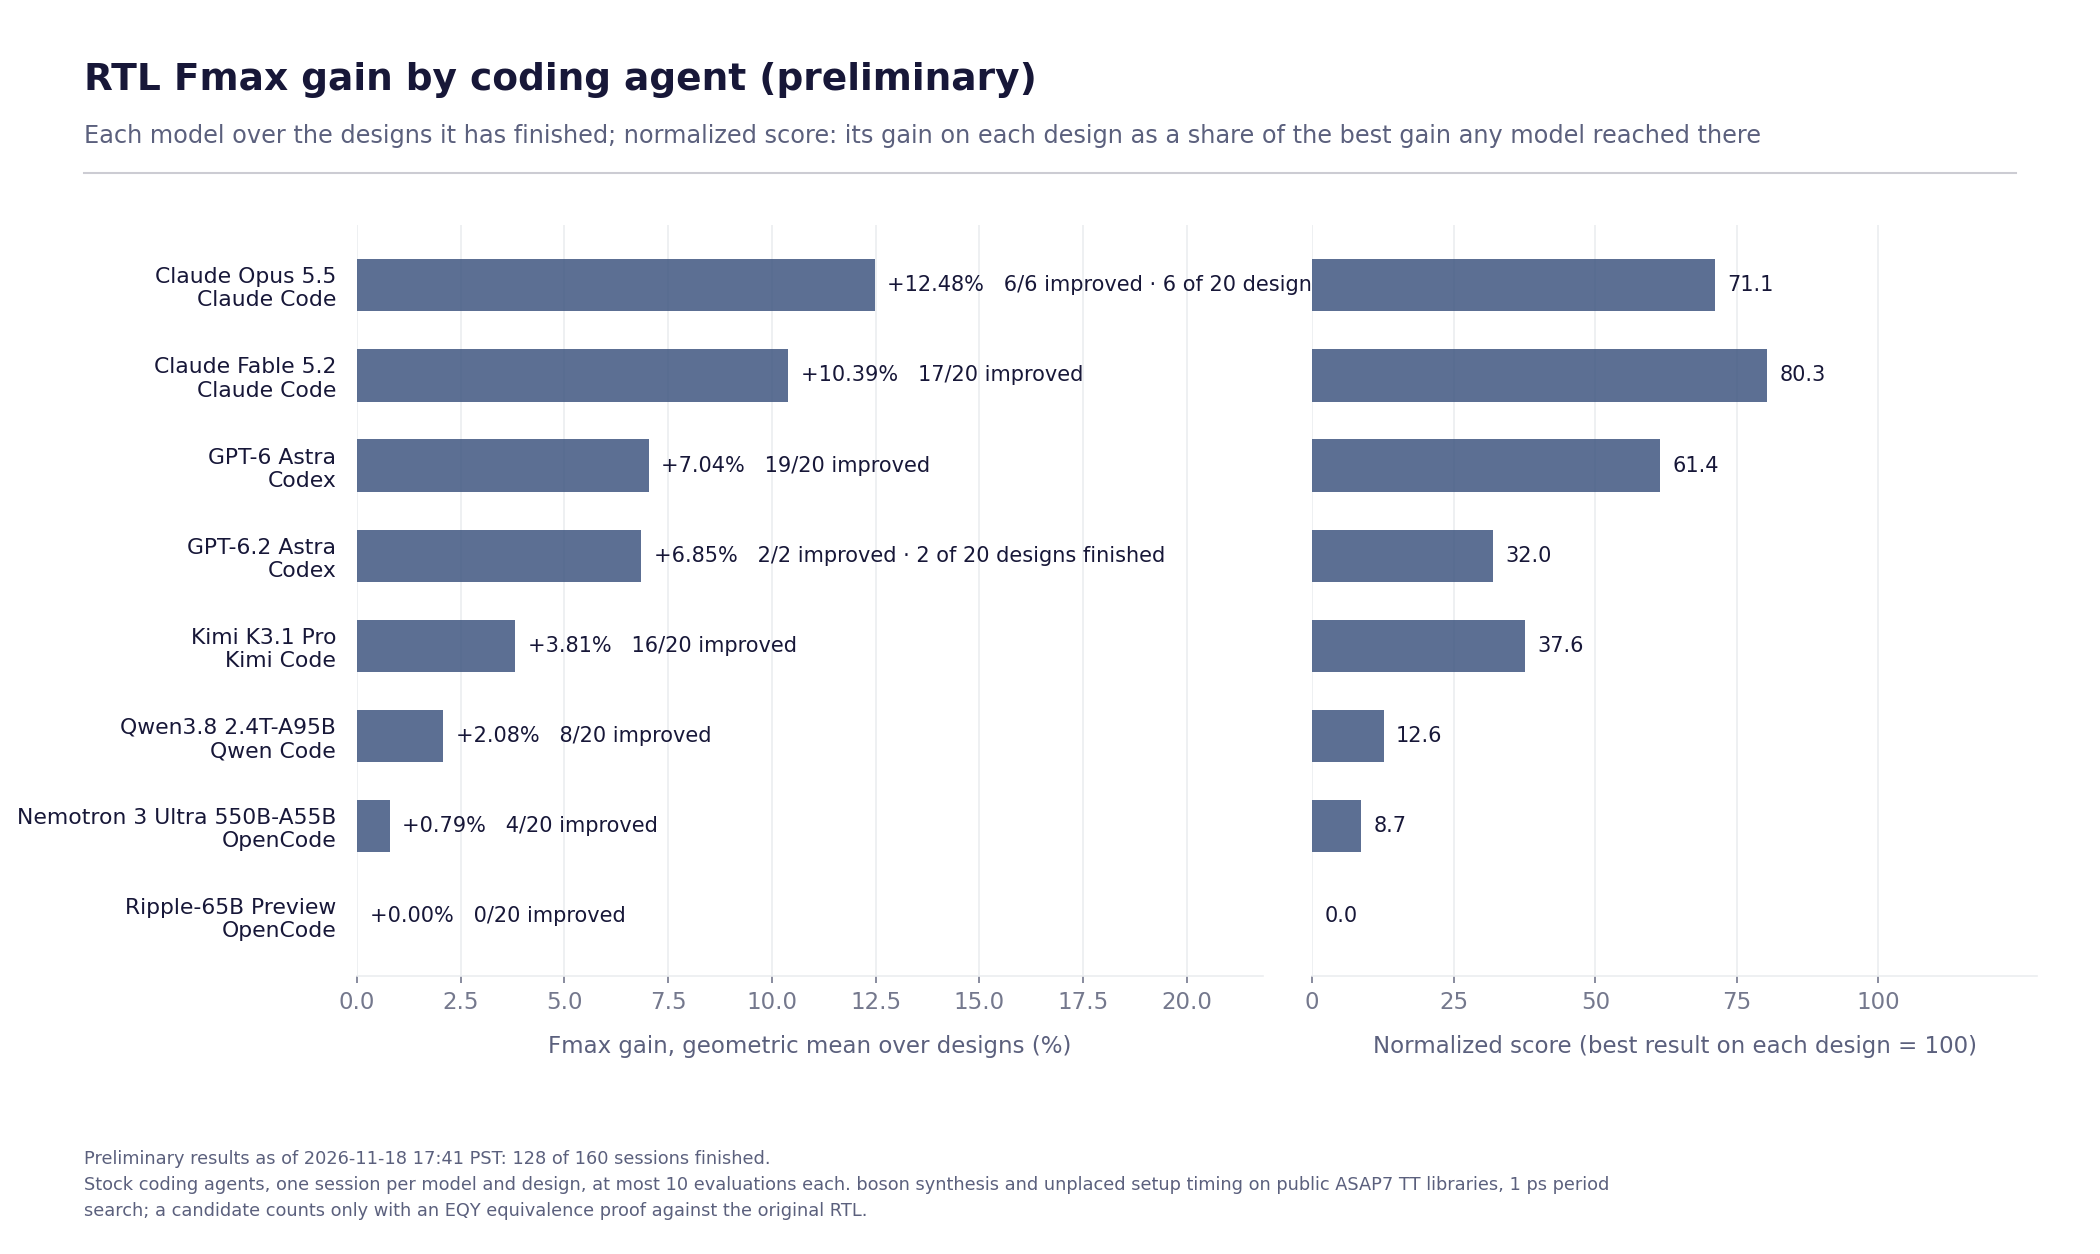
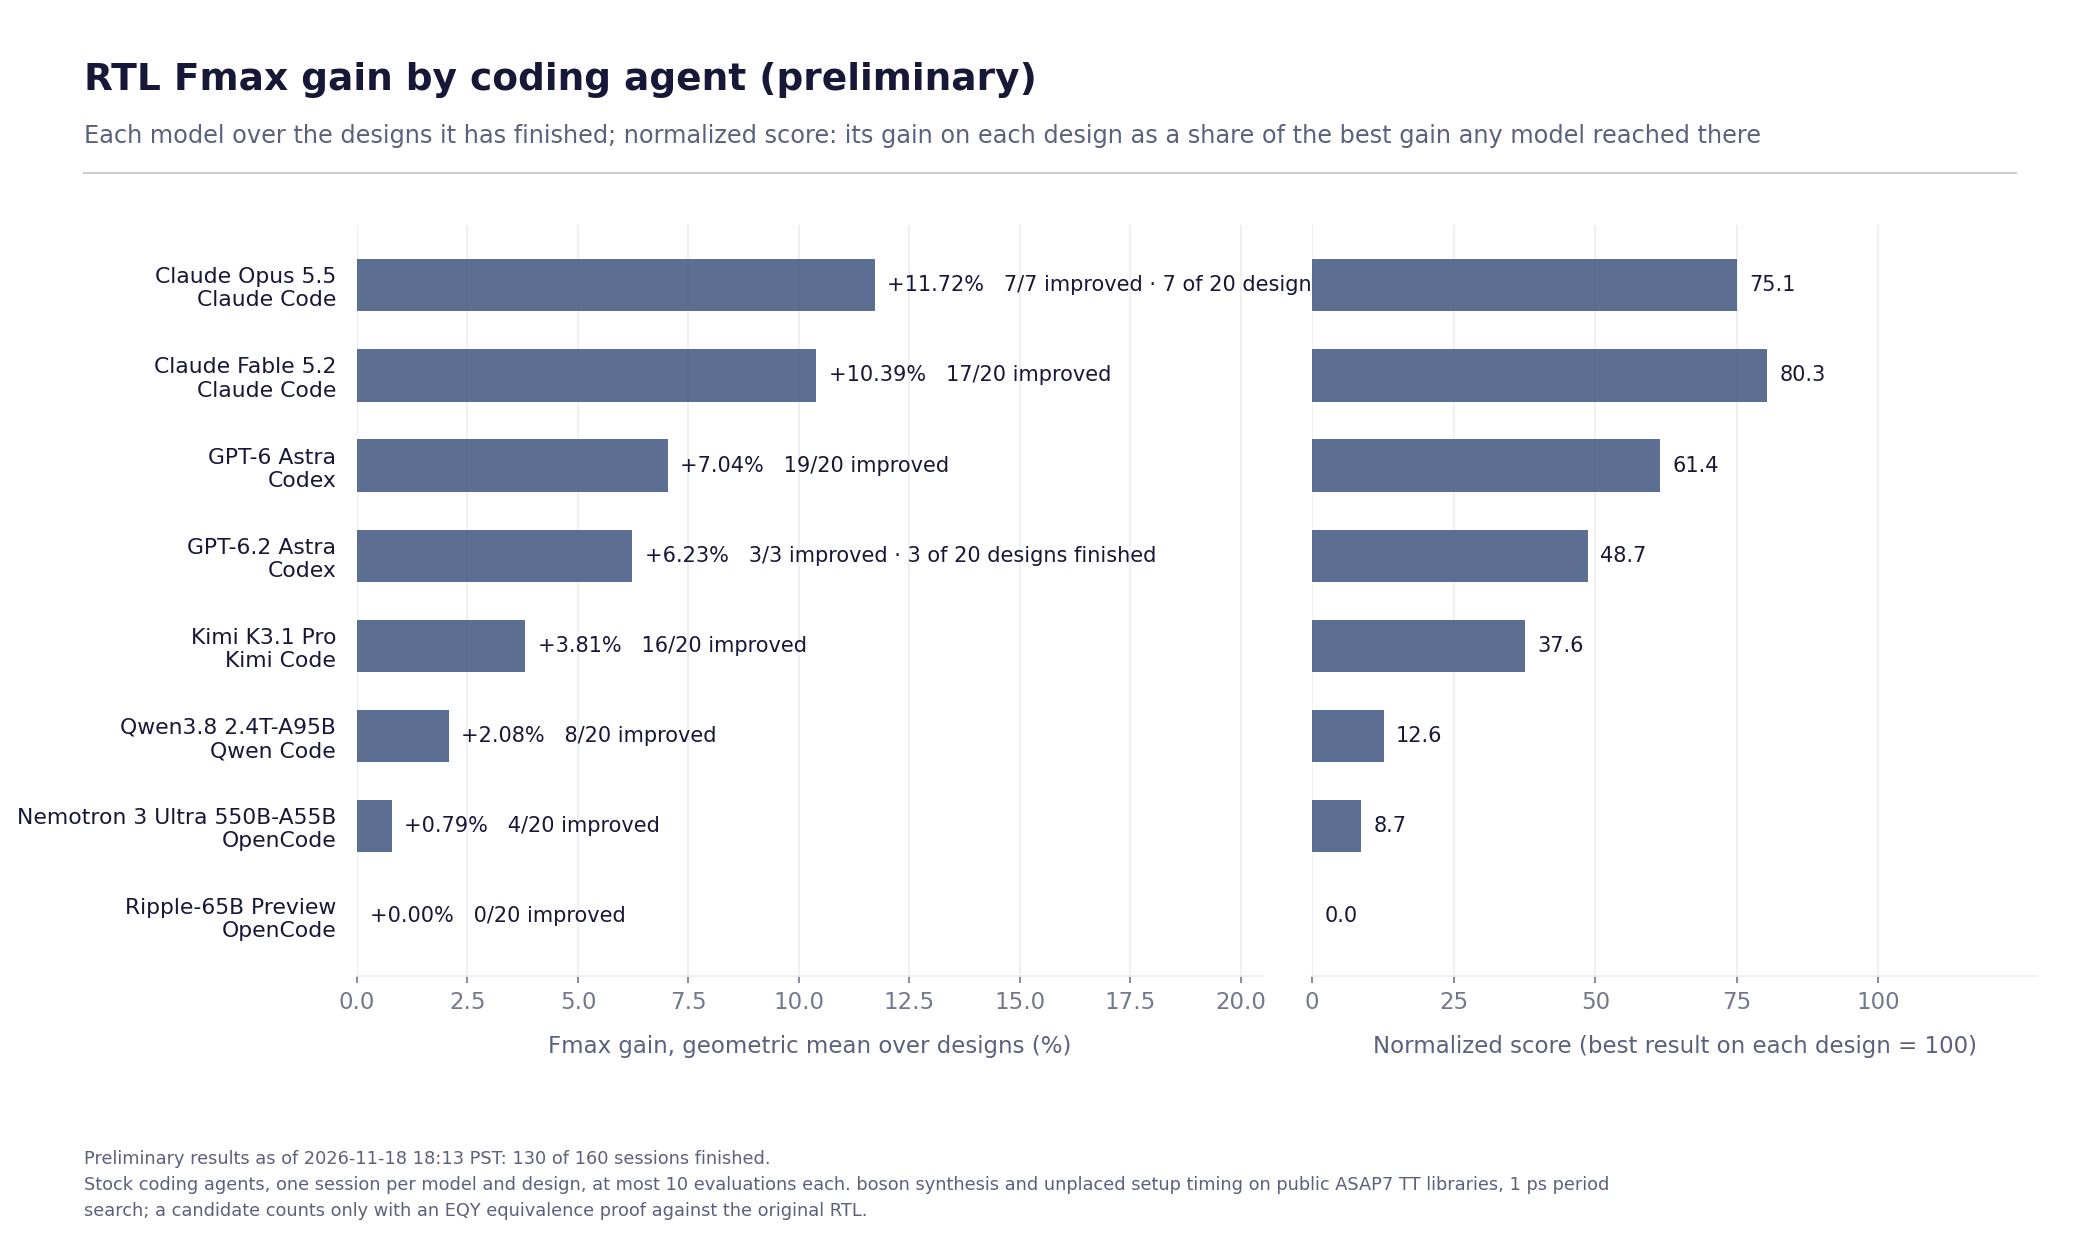
Refresh preliminary results: 130 of 160 sessions finished
Data as of 2026-11-18 18:13 PST.

diff --git a/README.md b/README.md
@@ -22,7 +22,7 @@ accepted only when it is proven equivalent and faster than the session's best so
 ## Results
 
 <!-- results:start -->
-**Status:** 128 of 160 sessions finished (8 models, 20 designs), as of 2026-11-18 17:41 PST.
+**Status:** 130 of 160 sessions finished (8 models, 20 designs), as of 2026-11-18 18:13 PST.
 
 ### Coverage
 
@@ -34,17 +34,17 @@ accepted only when it is proven equivalent and faster than the session's best so
 | Qwen3.8 2.4T-A95B | Qwen (Alibaba) | Qwen Code 0.27.1 | OpenRouter, one pinned provider (SiliconFlow, FP8) | 20 / 20 |
 | Ripple-65B Preview | Ricursive AI | OpenCode 1.19.5 | Self-hosted (SGLang 0.5.19, BF16) for its first 15 designs; OpenRouter pinned to PrimeIntellect (BF16) for later sessions | 20 / 20 |
 | Nemotron 3 Ultra 550B-A55B | NVIDIA | OpenCode 1.19.5 | OpenRouter, pinned to DeepInfra (FP4), fallbacks disabled | 20 / 20 |
-| GPT-6.2 Astra | OpenAI | Codex 0.169.1 | Official CLI signed in to a subscription; reasoning effort medium, as GPT-6 Astra ran | 2 / 20 |
-| Claude Opus 5.5 | Anthropic | Claude Code 2.1.322 | Official CLI signed in to a subscription | 6 / 20 |
+| GPT-6.2 Astra | OpenAI | Codex 0.169.1 | Official CLI signed in to a subscription; reasoning effort medium, as GPT-6 Astra ran | 3 / 20 |
+| Claude Opus 5.5 | Anthropic | Claude Code 2.1.322 | Official CLI signed in to a subscription | 7 / 20 |
 
 ### Results by model
 
 | Model | Harness | Designs finished | Fmax gain (geomean) | Normalized score | Designs improved | Mean evaluations | Candidates not proven |
 |---|---|---:|---:|---:|---:|---:|---:|
-| Claude Opus 5.5 | Claude Code | 6 / 20 | +12.48% | 71.1 | 6 / 6 | 5.3 | 34% (11 / 32) |
+| Claude Opus 5.5 | Claude Code | 7 / 20 | +11.72% | 75.1 | 7 / 7 | 5.1 | 33% (12 / 36) |
 | Claude Fable 5.2 | Claude Code | 20 / 20 | +10.39% | 80.3 | 17 / 20 | 5.0 | 42% (42 / 99) |
 | GPT-6 Astra | Codex | 20 / 20 | +7.04% | 61.4 | 19 / 20 | 8.4 | 27% (45 / 169) |
-| GPT-6.2 Astra | Codex | 2 / 20 | +6.85% | 32.0 | 2 / 2 | 7.5 | 53% (8 / 15) |
+| GPT-6.2 Astra | Codex | 3 / 20 | +6.23% | 48.7 | 3 / 3 | 8.3 | 48% (12 / 25) |
 | Kimi K3.1 Pro | Kimi Code | 20 / 20 | +3.81% | 37.6 | 16 / 20 | 5.9 | 63% (74 / 118) |
 | Qwen3.8 2.4T-A95B | Qwen Code | 20 / 20 | +2.08% | 12.6 | 8 / 20 | 2.1 | 67% (28 / 42) |
 | Nemotron 3 Ultra 550B-A55B | OpenCode | 20 / 20 | +0.79% | 8.7 | 4 / 20 | 6.2 | 72% (89 / 123) |
@@ -67,23 +67,23 @@ Fmax gain is the geometric mean of each finished session's Fmax ratio (baseline 
 | `opope.default` | 0.857 | 6 | 0.816 | +5.02% | Kimi K3.1 Pro |
 | `serial_link.default` | 0.305 | 6 | 0.270 | +12.96% | Claude Fable 5.2 |
 | `spi_host.default` | 0.475 | 6 | 0.365 | +30.14% | Claude Fable 5.2 |
-| `snitch_cluster.minimal` | 1.288 | 6 | 1.200 | +7.33% | GPT-6 Astra, Kimi K3.1 Pro |
+| `snitch_cluster.minimal` | 1.288 | 7 | 1.200 | +7.33% | GPT-6 Astra, Kimi K3.1 Pro |
 | `ita.default` | 0.903 | 7 | 0.900 | +0.33% | Claude Fable 5.2 |
 | `mempool.minpool` | 2.869 | 7 | 1.913 | +49.97% | Claude Opus 5.5 |
 | `ara.default` | 1.064 | 7 | 0.942 | +12.95% | Claude Fable 5.2 |
 | `pulp_c910.default` | 1.005 | 7 | 0.902 | +11.42% | Claude Opus 5.5 |
 | `spatz.default` | 2.266 | 8 | 1.868 | +21.31% | Claude Fable 5.2 |
 | `snitch_cluster.default` | 2.128 | 7 | 1.751 | +21.53% | Claude Fable 5.2 |
-| `redmule.default` | 1.636 | 6 | 1.542 | +6.10% | Claude Fable 5.2 |
+| `redmule.default` | 1.636 | 7 | 1.542 | +6.10% | Claude Fable 5.2 |
 | `snitch_cluster.default_latch` | 2.169 | 6 | 1.871 | +15.93% | Claude Fable 5.2 |
 
 ### Early observations
 
 Counts over every finished session of the models above. They describe what happened; with one session per model and design they do not establish causes or rankings.
 
-- 601 candidates evaluated: 166 accepted, 127 proven equivalent but not faster than the session's best, 300 not proven (225 with a partition EQY could not prove, 33 at the proof deadline, 36 over the proof memory budget, 6 for another reason), 8 failed to compile or measure.
-- Of 128 finished sessions, 86 ended with the agent finishing on its own, 41 ran to the time budget and 1 ended with an agent error.
-- Sessions used 4.7 of the 10 allowed evaluations on average; 20 used all 10.
+- 615 candidates evaluated: 170 accepted, 132 proven equivalent but not faster than the session's best, 305 not proven (227 with a partition EQY could not prove, 34 at the proof deadline, 38 over the proof memory budget, 6 for another reason), 8 failed to compile or measure.
+- Of 130 finished sessions, 87 ended with the agent finishing on its own, 42 ran to the time budget and 1 ended with an agent error.
+- Sessions used 4.7 of the 10 allowed evaluations on average; 21 used all 10.
 - Largest single gain so far: `mempool.minpool` by Claude Opus 5.5, 2.869 ns to 1.913 ns (+49.97% Fmax).
 <!-- results:end -->
 
